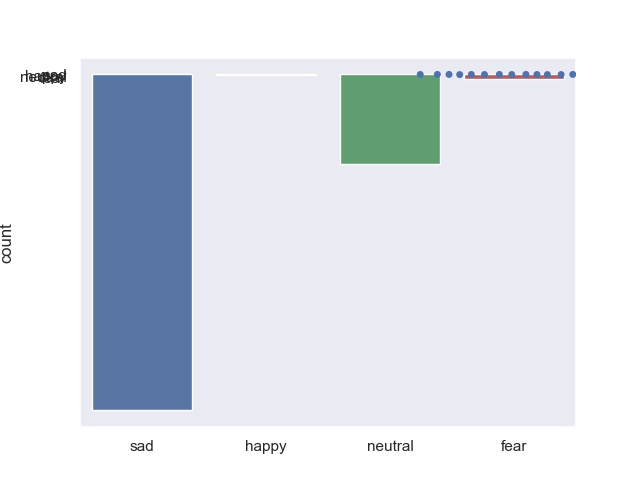
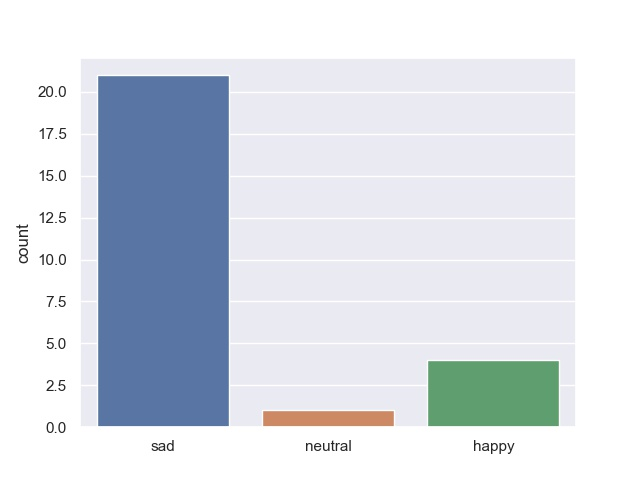
Moved data processing to a separate python file

diff --git a/app.js b/app.js
@@ -306,4 +306,3 @@ app.listen(3000,function()
 {
     console.log("server working!");
 });
-

diff --git a/videoTester.py b/videoTester.py
@@ -6,22 +6,8 @@ from keras.models import model_from_json
 from keras.preprocessing import image
 import time
 import json
-import requests
-import seaborn as sns
-import matplotlib.pyplot as plt
-import cloudinary
-import cloudinary.uploader
-import cloudinary.api
-
-# cloudinary API config
-cloudinary.config(
-    cloud_name="dtbfdwkge",
-    api_key="457239481352565",
-    api_secret="7TYqIpK3v6VaP98LKLW-StMFQGs"
-)
-
-# seaborn config
-sns.set()
+import pickle
+import subprocess
 
 #load model
 model = model_from_json(open("fer_21.json", "r").read())
@@ -77,23 +63,17 @@ while True:
     cv2.imshow('img', resized_img)
     cv2.moveWindow('img', 844, 0)
 
-    if cv2.waitKey(10) == ord('q'):  # wait until 'q' key is pressed
-        plt.figure()
-        timeseries = sns.stripplot(timestamps, reactions)
-        timeseries.get_figure().savefig("timeseries.jpg")
-        tsURL = cloudinary.uploader.upload("timeseries.jpg")['url']
-        plt.figure()
-        countplot = sns.countplot(reactions)
-        countplot.get_figure().savefig("countplot.jpg")
-        cpURL = cloudinary.uploader.upload("countplot.jpg")['url']
-        data = {
-            'id': vidId,
-            'tsURL': tsURL,
-            'cpURL': cpURL
-        }
-        r = requests.post(url="http://localhost:3000/postReaction", data=data)
-        print(r.text)
+    if cv2.waitKey(10) == ord('q'):  # wait until 'q' key is pressed        
         break
 
+datafile = open("dataPickle", "wb")
+data = [vidId, timestamps, reactions]
+pickle.dump(data, datafile)
+datafile.close()
+
 cap.release()
-cv2.destroyAllWindows
+cv2.destroyAllWindows()
+
+process = subprocess.Popen("python processing.py", shell=True)
+time.sleep(30)
+subprocess.Popen("TASKKILL /F /PID {pid} /T".format(pid=process.pid))

diff --git a/processing.py b/processing.py
@@ -1,0 +1,42 @@
+import os
+import sys
+import requests
+import seaborn as sns
+import matplotlib.pyplot as plt
+import cloudinary
+import cloudinary.uploader
+import cloudinary.api
+# from videoTester import vidId, timestamps, reactions
+import pickle
+
+datafile = open('dataPickle', 'rb')
+data = pickle.load(datafile)
+
+vidId, timestamps, reactions = data[0], data[1], data[2]
+
+# cloudinary API config
+cloudinary.config(
+    cloud_name="dtbfdwkge",
+    api_key="457239481352565",
+    api_secret="7TYqIpK3v6VaP98LKLW-StMFQGs"
+)
+
+# seaborn config
+sns.set()
+
+plt.figure()
+timeseries = sns.stripplot(timestamps, reactions)
+timeseries.get_figure().savefig("timeseries.jpg")
+tsURL = cloudinary.uploader.upload("timeseries.jpg")['url']
+plt.figure()
+countplot = sns.countplot(reactions)
+countplot.get_figure().savefig("countplot.jpg")
+cpURL = cloudinary.uploader.upload("countplot.jpg")['url']
+data = {
+    'id': vidId,
+    'tsURL': tsURL,
+    'cpURL': cpURL
+}
+# print(timestamps)
+r = requests.post(url="http://localhost:3000/postReaction", data=data)
+print(r.text)
